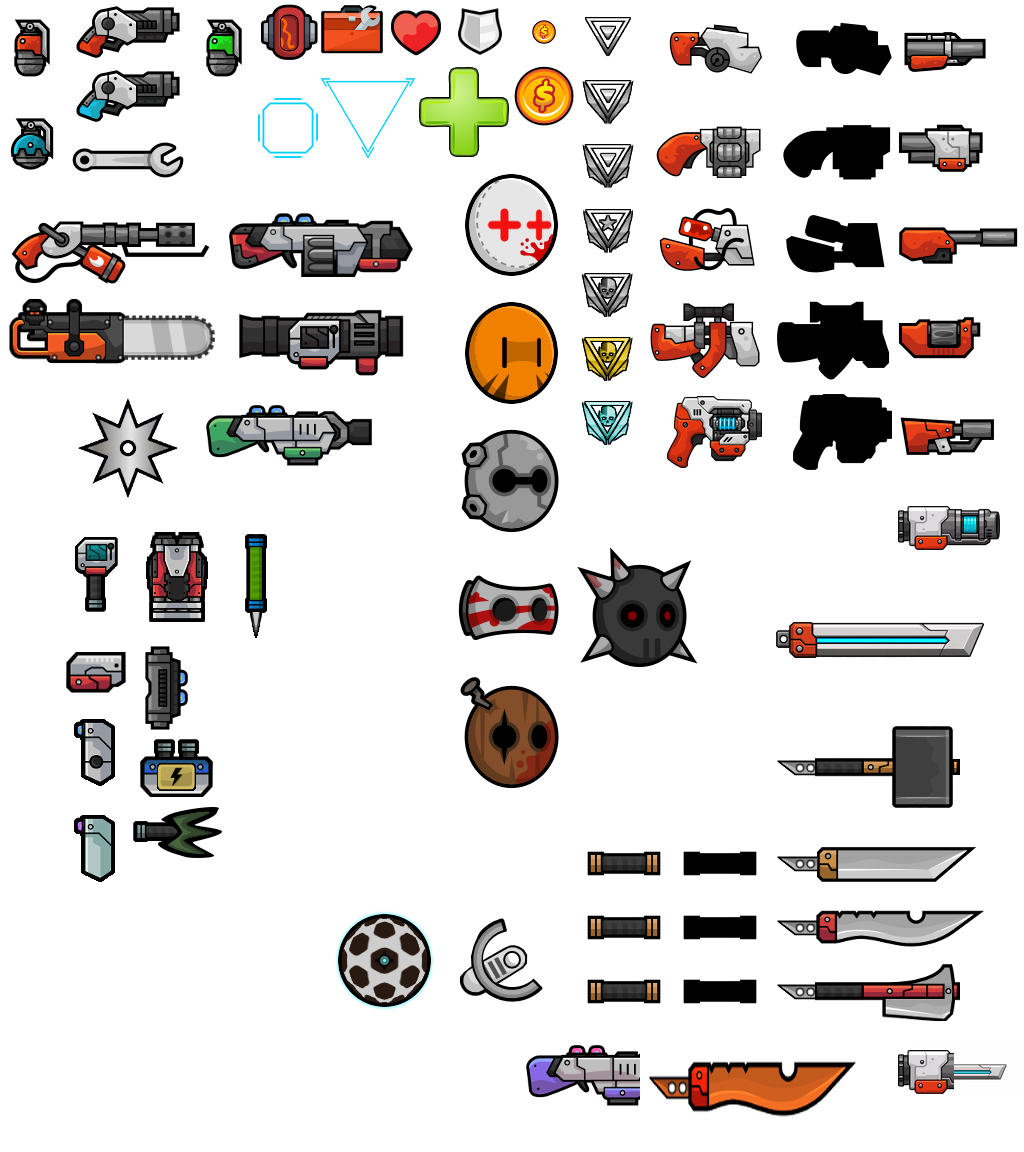
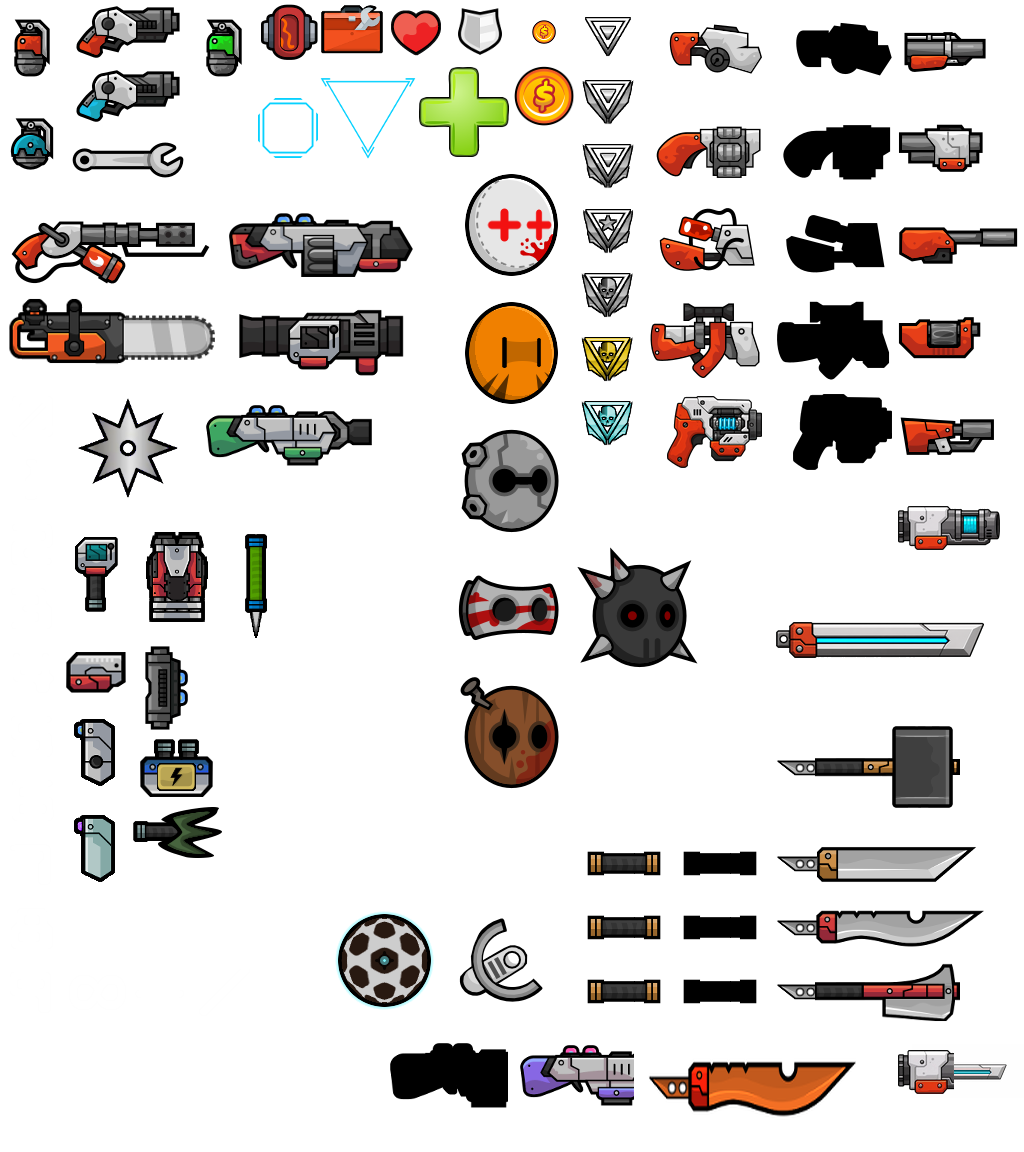
Image fix

Changed region(s): [[0.375, 0.9062, 0.625, 0.9688]]

diff --git a/datasrc/content.py b/datasrc/content.py
@@ -718,7 +718,7 @@ for i in range(0, 4):
 	container.sprites.Add(Sprite("weapon_part1_bg_"+str(i), set_weapons, 24, i*3, 4, 3))
 
 container.sprites.Add(Sprite("weapon_part1_bg_4", set_weapons, 24, 12, 4, 3))
-container.sprites.Add(Sprite("weapon_part1_bg_5", set_weapons, 24, 15, 4, 3))
+container.sprites.Add(Sprite("weapon_part1_bg_5", set_weapons, 12, 32, 4, 3))
 	
 # sword grip bgs
 for i in range(0, 3):
